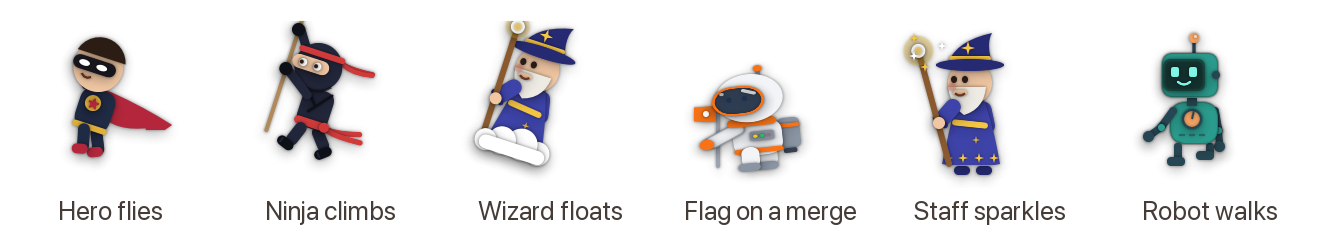
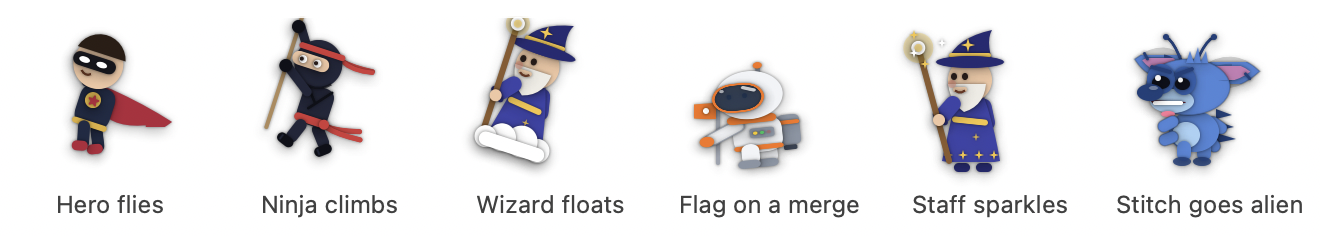
README images: all 9 buddies with Stitch, and Stitch's alien mode among the tricks

diff --git a/README.md b/README.md
@@ -53,11 +53,11 @@ Right-click Buddy → **Look** → **Theme**.
 
 Right-click Buddy → **Look** → **Buddy**. Three animals, six that aren't, each with five looks. Or `random` for a different one every day, or right-click → **🎲 Shuffle buddy** for a new one right now. Don't like one? Leave it out of both with `"skipBuddies": ["robot"]` in `~/.config/buddy.json`.
 
-<p align="center"><img src="docs/buddies.png" width="660" alt="The eight buddies: cat, pug, bear, caped hero, ninja, wizard, astronaut and robot"></p>
+<p align="center"><img src="docs/buddies.png" width="495" alt="The nine buddies: cat, pug, bear, caped hero, ninja, wizard, astronaut, robot and Stitch"></p>
 
 Each has its own way of reacting: the hero flies off when a PR breaks, the ninja climbs a rope and throws a toy star, the wizard teleports and floats on a cloud, the astronaut plants a flag when you merge, the robot dances, and Stitch plays the ukulele, surfs, and goes full alien (extra arms, antennae, spines) when a PR breaks.
 
-<p align="center"><img src="docs/tricks.png" width="900" alt="Tricks: the hero flying, the ninja climbing, the wizard on a cloud, the astronaut's flag, the wizard's staff sparkling, the robot walking"></p>
+<p align="center"><img src="docs/tricks.png" width="900" alt="Tricks: the hero flying, the ninja climbing, the wizard on a cloud, the astronaut's flag, the wizard's staff sparkling, Stitch going full alien"></p>
 
 ## Costumes and festivals
 
